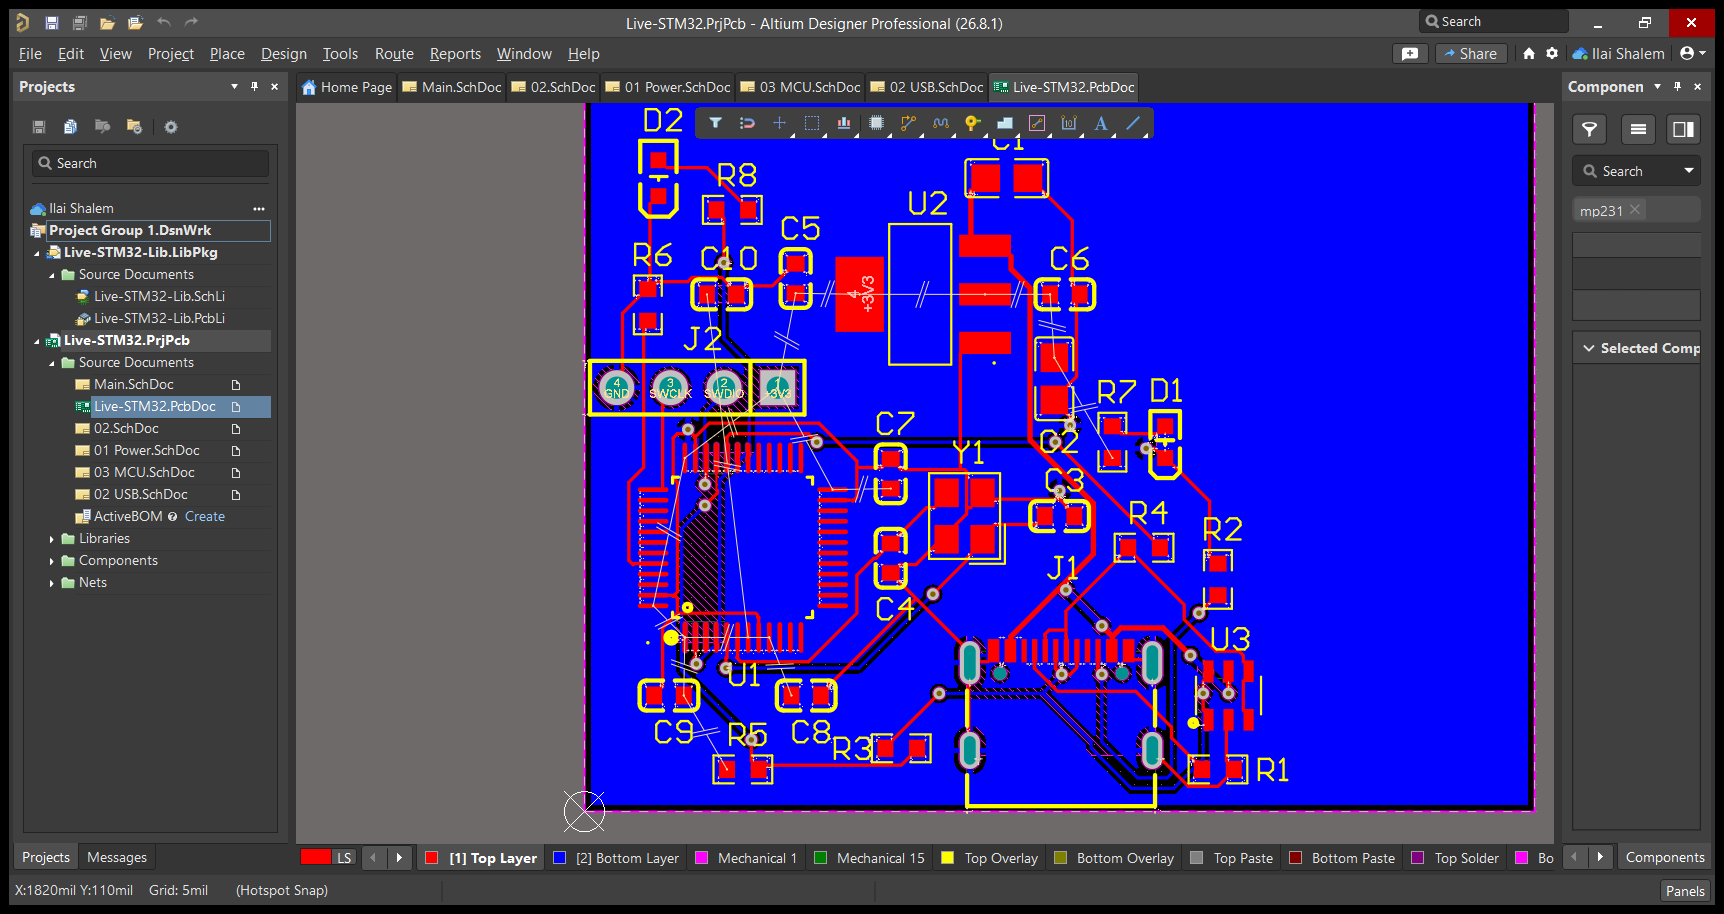
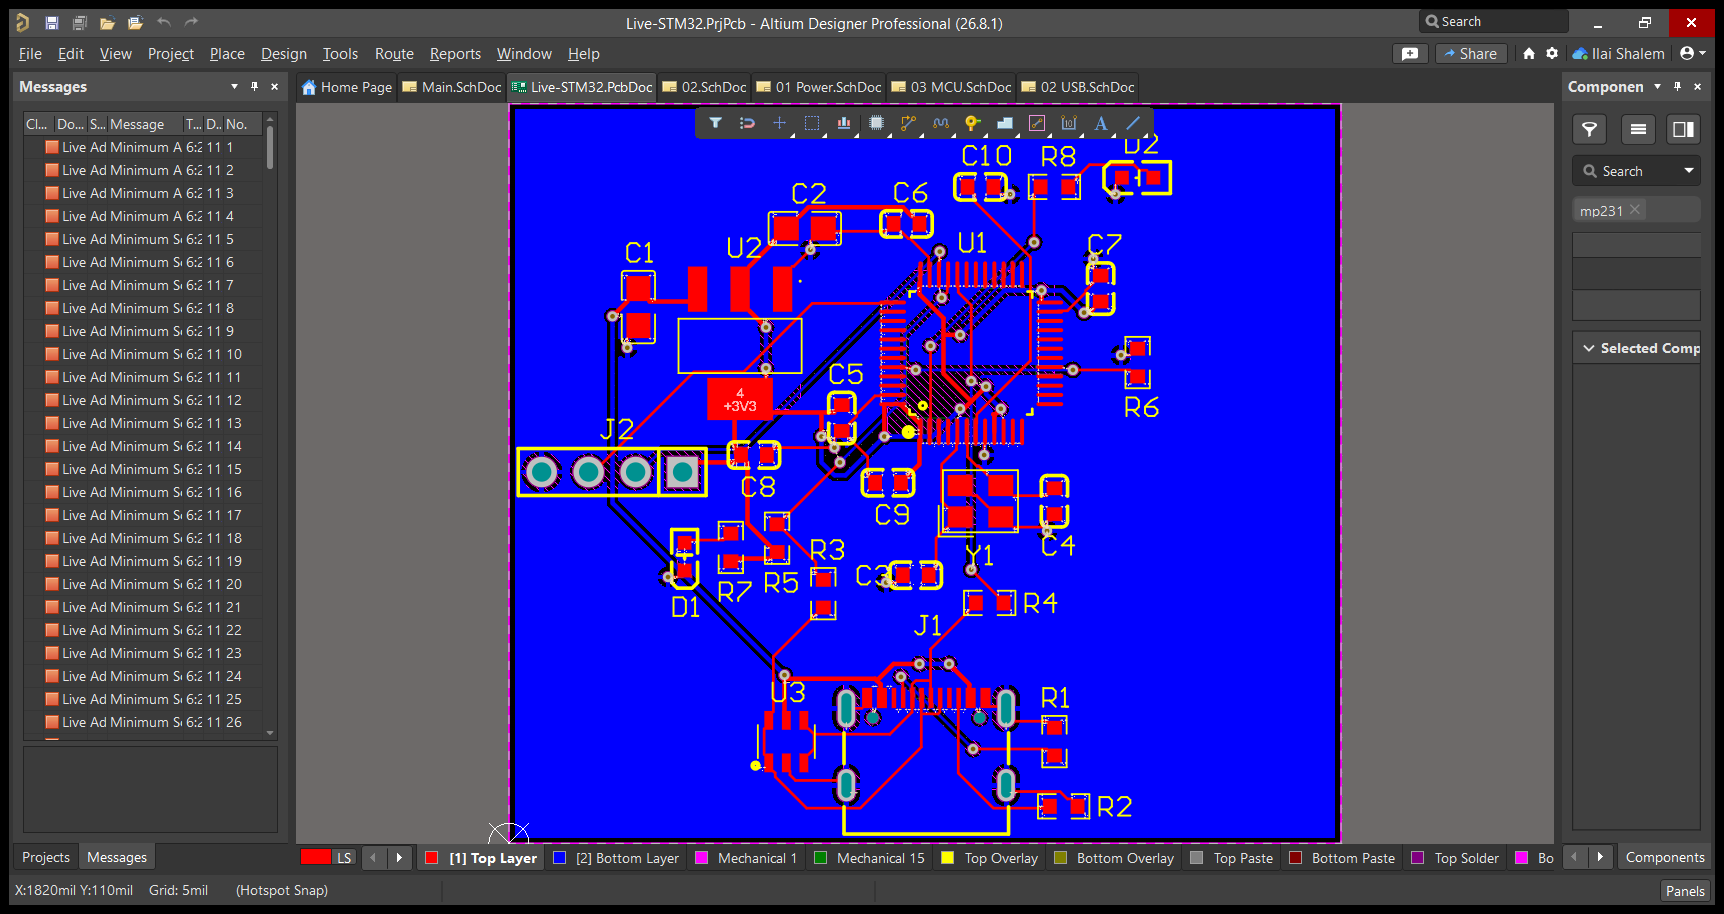
Live STM32 run 3 in Altium: 18/18 routed with the GND pour, DRC 0 clearance/short/un-routed; docs and the board screenshot updated
Claude-Session: https://claude.ai/code/session_01TXY57t4PQ4TP8yKxyJNQQp

diff --git a/docs/STATUS-2026-11-11.md b/docs/STATUS-2026-11-11.md
@@ -140,7 +140,8 @@
 - **בנצ'מרק מחדש:** בוצע ב-18/11 על שני המנועים. התוצאות ב-`docs/SUBMISSION.md` וב-`docs/BENCHMARK.md`.
 - **ריצה חיה של לוח ה-STM32 באלטיום (18/11):** כל השלבים עד הניתוב עבדו על 26 רכיבים. הניתוב החי הגיע ל-16/18 רשתות.
   - אחר כך תוקן הנתב. הלוח החי שוחזר כבדיקה אופליין (`tests/test_live_stm32_routing.py`), ושם הוא מגיע ל-18/18 עם 0 הפרות, גם בהזזה של עד 0.25 מ"מ.
-  - ריצה חיה חוזרת עם הנתב החדש עוד לא בוצעה.
+  - ריצה חיה שלישית (18/11 ערב, 7c7a7ad): 18/18, 180 מסלולים, 36 ויות ושכבת GND, ב-47 שניות. DRC של Altium: 0 clearance, 0 קצרים, 0 חיבורים פתוחים.
+  - ה-DRC לא נקי: נשארו ממצאי footprint וסילק (annular ring 4, mask sliver 81, silk-to-mask 271). הם מגיעים מה-footprint של J1 ומהסילק, לא מהניתוב.
 - **בדיקות סטטיות (18/11):** `tests/test_static_gates.py` בודק תחביר JS בכל קבצי הממשק, מריץ ruff על כללי נכונות, בודק הפניות לקבצים מה-HTML ואת מבנה `AdvisorBridge.pas`.
   - route.py, pair.py ו-layout.py עדיין מוחרגים מ-ruff.
 - **התקנה נקייה על מחשב שלא ראה את המערכת:** עדיין פתוחה (ראו "עדיין פתוח" למטה).

diff --git a/docs/SUBMISSION.md b/docs/SUBMISSION.md
@@ -156,7 +156,10 @@ reference in the UI and the structure of the Altium script.
 - A board with an empty inner layer is not detected.
 - Automatic split into several sheets and multi-part symbols are deferred (the draw step refuses with a ready split plan).
 - Two copper layers only; USB at 90 ohm differential impedance is not guaranteed in two layers.
-- The live Altium rerun with the latest router is not done yet; the 18/18 above is from the offline fixture of that board.
+- Live STM32 run in Altium, 2026-11-18 (26 parts, commit 7c7a7ad): placed in 21 s, routed 18 of 18 nets with 180 tracks, 36 vias and
+  the GND pour in 47 s. Altium's DRC: 0 clearance, 0 short-circuit, 0 un-routed. It is not clean: 4 annular-ring, 81 solder-mask-sliver
+  and 271 silk-to-solder-mask findings remain, from the footprints that come with the parts (J1's fine pitch) and silkscreen, not the
+  routing; the tool reports them as footprint findings.
 - Clean-computer installation (no Python, no Claude) has not been tested end to end.
 - Windows is the supported platform for the Altium steps.
 
